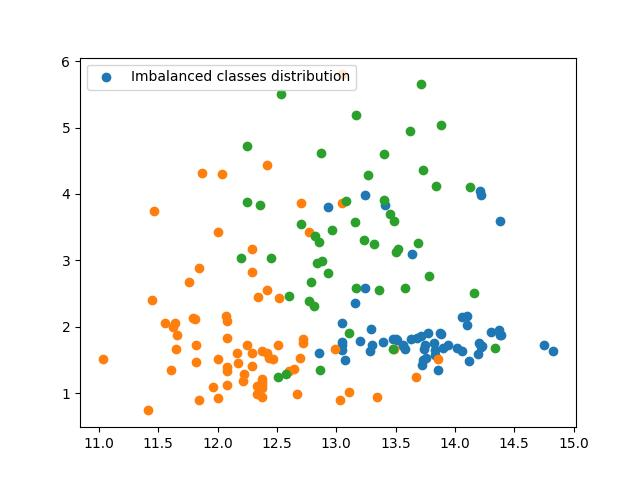
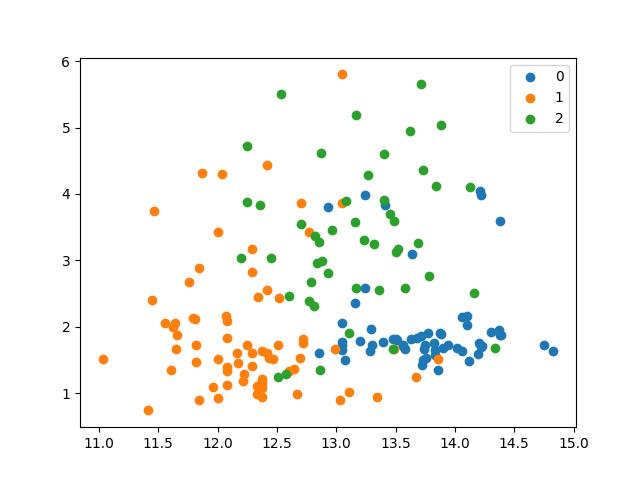
classes distribution successfully balanced, data split in 70% training and 30% test data

Changed region(s): [[0.1562, 0.125, 0.5625, 0.1875], [0.8125, 0.125, 0.8438, 0.2812]]

diff --git a/winevarietiesprediction.py b/winevarietiesprediction.py
@@ -10,7 +10,6 @@ from datetime import datetime
 from sklearn.datasets import load_wine
 from sklearn.utils import Bunch
 from sklearn.model_selection import train_test_split
-from sklearn.preprocessing import LabelEncoder
 from imblearn.over_sampling import SMOTE
 
 
@@ -61,15 +60,18 @@ class WineVarietiesPrediction:
         print("Input split into X_train, X_test, y_train and y_test...")
         return train_test_split(data, target, shuffle=shuffle_, train_size=train_size_, random_state=random_state_)
 
-    def get_classes_distritution(self, train_test : list) -> dict:
+    def get_classes_distritution(self, target : list, train_test : list) -> dict:
         """Obtain a list of X_train, X_test, y_train, y_test data and determine the distribution of classes. Helpful to check how balanced classes are."""
+        target_count = len(target)
         y_train_count = len(train_test[2])
         y_test_count = len(train_test[3])
         classes_distribution = {}
+        for i in range(len(pd.Series(target).value_counts())):
+            classes_distribution[f'class_{i} : {pd.Series(target).value_counts()[i]}/{target_count}'] = f"({round(pd.Series(target).value_counts()[i] / target_count*100)}%)"
         for i in range(len(pd.Series(train_test[2]).value_counts())):
-            classes_distribution[f'class_{i}_train {pd.Series(train_test[2]).value_counts()[i]}/{y_train_count}'] = f"({round(pd.Series(train_test[2]).value_counts()[i] / y_train_count*100)}%))"
+            classes_distribution[f'class_{i}_train : {pd.Series(train_test[2]).value_counts()[i]}/{y_train_count}'] = f"({round(pd.Series(train_test[2]).value_counts()[i] / y_train_count*100)}%)"
         for i in range(len(pd.Series(train_test[3]).value_counts())):
-            classes_distribution[f'class_{i}_train {pd.Series(train_test[3]).value_counts()[i]}/{y_test_count}'] = f"({round(pd.Series(train_test[3]).value_counts()[i] / y_test_count*100)}%))"
+            classes_distribution[f'class_{i}_test : {pd.Series(train_test[3]).value_counts()[i]}/{y_test_count}'] = f"({round(pd.Series(train_test[3]).value_counts()[i] / y_test_count*100)}%)"
         print("Distribution of classes determined...")
         return classes_distribution
     
@@ -101,6 +103,17 @@ class WineVarietiesPrediction:
         print("Distribution of classes balanced...")
         return (X_smote, y_smote)    
 
+    def train_appropriate_algorithm(self) -> None:
+        """"""
+        pass
+
+    def test_appropriate_algorithm(self) -> None:
+        """"""
+        pass
+
+    def illusrate_result(self) -> None:
+        """"""
+        pass
 
 if __name__ == "__main__":
     wine_variety_prediction = WineVarietiesPrediction()
@@ -108,9 +121,15 @@ if __name__ == "__main__":
     X = wine_variety_prediction.get_data(wine_bunch)
     y = wine_variety_prediction.get_target(wine_bunch)
     X_train, X_test, y_train, y_test = wine_variety_prediction.split_input(X, y)
-    print(f"Initial distribution of classes : {wine_variety_prediction.get_classes_distritution([X_train, X_test, y_train, y_test])}")
+    classes_distribution = wine_variety_prediction.get_classes_distritution(y, [X_train, X_test, y_train, y_test])
+    print(f"\nImbalanced distribution of classes :\n")
+    for k, v in classes_distribution.items():
+        print(f"{k} {v}")
     X_smote, y_smote = wine_variety_prediction.balance_classes_distribution([X, y])
     X_smote_train, X_smote_test, y_smote_train, y_smote_test = wine_variety_prediction.split_input(X_smote, y_smote)
-    print(f"Balanced distribution of classes : {wine_variety_prediction.get_classes_distritution([X_smote_train, X_smote_test, y_smote_train, y_smote_test])}")
+    classes_distribution = wine_variety_prediction.get_classes_distritution(y_smote, [X_smote_train, X_smote_test, y_smote_train, y_smote_test])
+    print(f"\nBalanced distribution of classes :\n")
+    for k, v in classes_distribution.items():
+        print(f"{k} {v}")
 
         

diff --git a/tests/winevarietiesprediction_test.py b/tests/winevarietiesprediction_test.py
@@ -139,32 +139,61 @@ class TestWineVarietiesPrediction(unittest.TestCase):
         data = wine_variety_prediction.get_data(wine_bunch)
         target = wine_variety_prediction.get_target(wine_bunch)
         content = wine_variety_prediction.split_input(data, target)
-        classes_distribution = wine_variety_prediction.get_classes_distritution(content)
+        classes_distribution = wine_variety_prediction.get_classes_distritution(target, content)
 
         first = dict
         second = type(classes_distribution)
         msg = "second should return a dict."
         self.assertEqual(first, second, msg)  
 
-    def test_if_balance_classes_distribution_returns_a_list(self):
+    def test_if_balance_classes_distribution_returns_a_tuple(self):
         """second should return a list."""
         wine_variety_prediction = WineVarietiesPrediction()
         wine_bunch = wine_variety_prediction.load_wine_dataset()
         data = wine_variety_prediction.get_data(wine_bunch)
         target = wine_variety_prediction.get_target(wine_bunch)
         content = wine_variety_prediction.split_input(data, target)
-        classes_distribution = wine_variety_prediction.get_classes_distritution(content)
-        balanced_classes = wine_variety_prediction.balance_classes_distribution(data, target)
+        classes_distribution = wine_variety_prediction.get_classes_distritution(target, content)
+        balanced_classes = wine_variety_prediction.balance_classes_distribution([data, target])
 
-        first = list
+        first = tuple
         second = type(balanced_classes)
         msg = "second should return a list."
-        self.assertEqual(first, second, msg)        
+        self.assertEqual(first, second, msg)     
+
+    def test_if_balance_classes_distribution_returns_balanced_classes(self):
+        """second should return a list."""
+        wine_variety_prediction = WineVarietiesPrediction()
+        wine_bunch = wine_variety_prediction.load_wine_dataset()
+        data = wine_variety_prediction.get_data(wine_bunch)
+        target = wine_variety_prediction.get_target(wine_bunch)
+        content = wine_variety_prediction.split_input(data, target)
+        classes_distribution = wine_variety_prediction.get_classes_distritution(target, content)
+        balanced_classes = wine_variety_prediction.balance_classes_distribution([data, target])
+        serie_za = pd.Series([balanced_classes[1]]).value_counts()
+
+        first = max(serie_za)
+        second = True
+        for item in serie_za:
+            if first != item:
+                second = False
+        msg = f"{pd.Series([balanced_classes[1]]).value_counts()}"
+        self.assertTrue(second, msg)   
 
 # 3- Entraîner (le modèle) un algorithme approprié
-
+    def test_if_train_appropriate_algorithm(self):
+        """"""
+        pass
 
 # 4- Tester l'algorithme sur les données de test
-
+    def test_if_test_appropriate_algorithm(self):
+        """"""
+        pass
 
 # 5- Illustrez votre résultat
+    def test_if_illusrate_result(self):
+        """"""
+        pass
+
+
+
